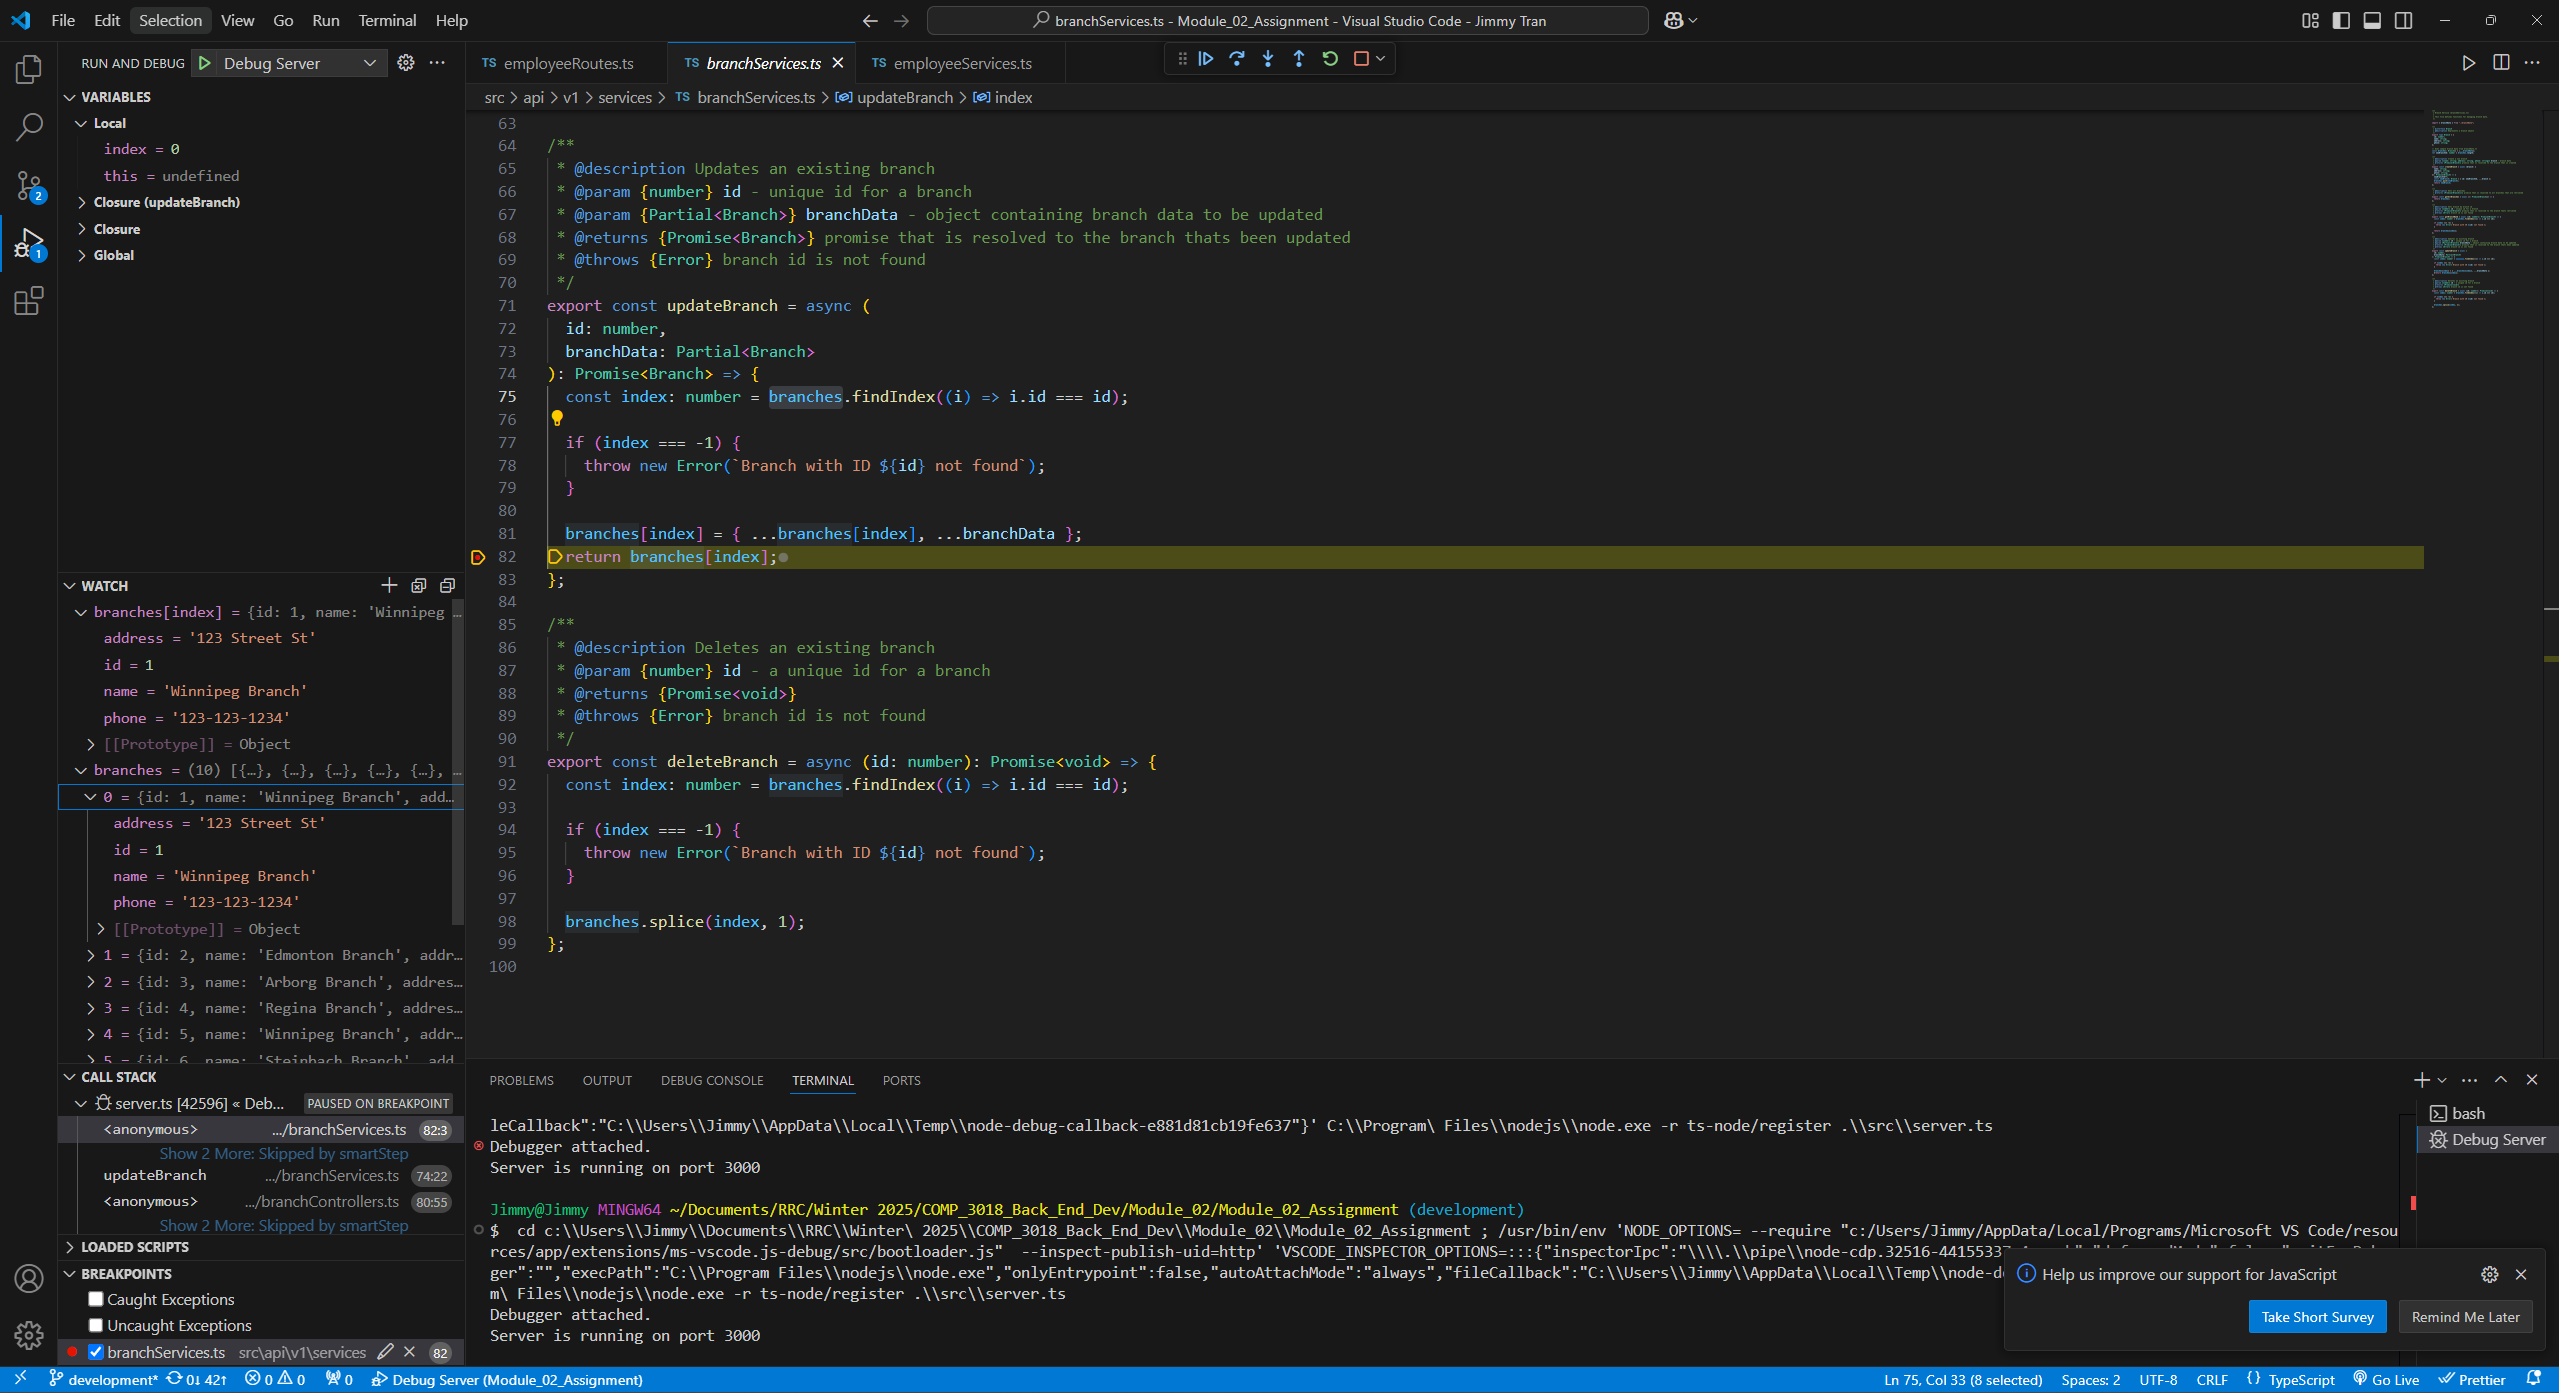
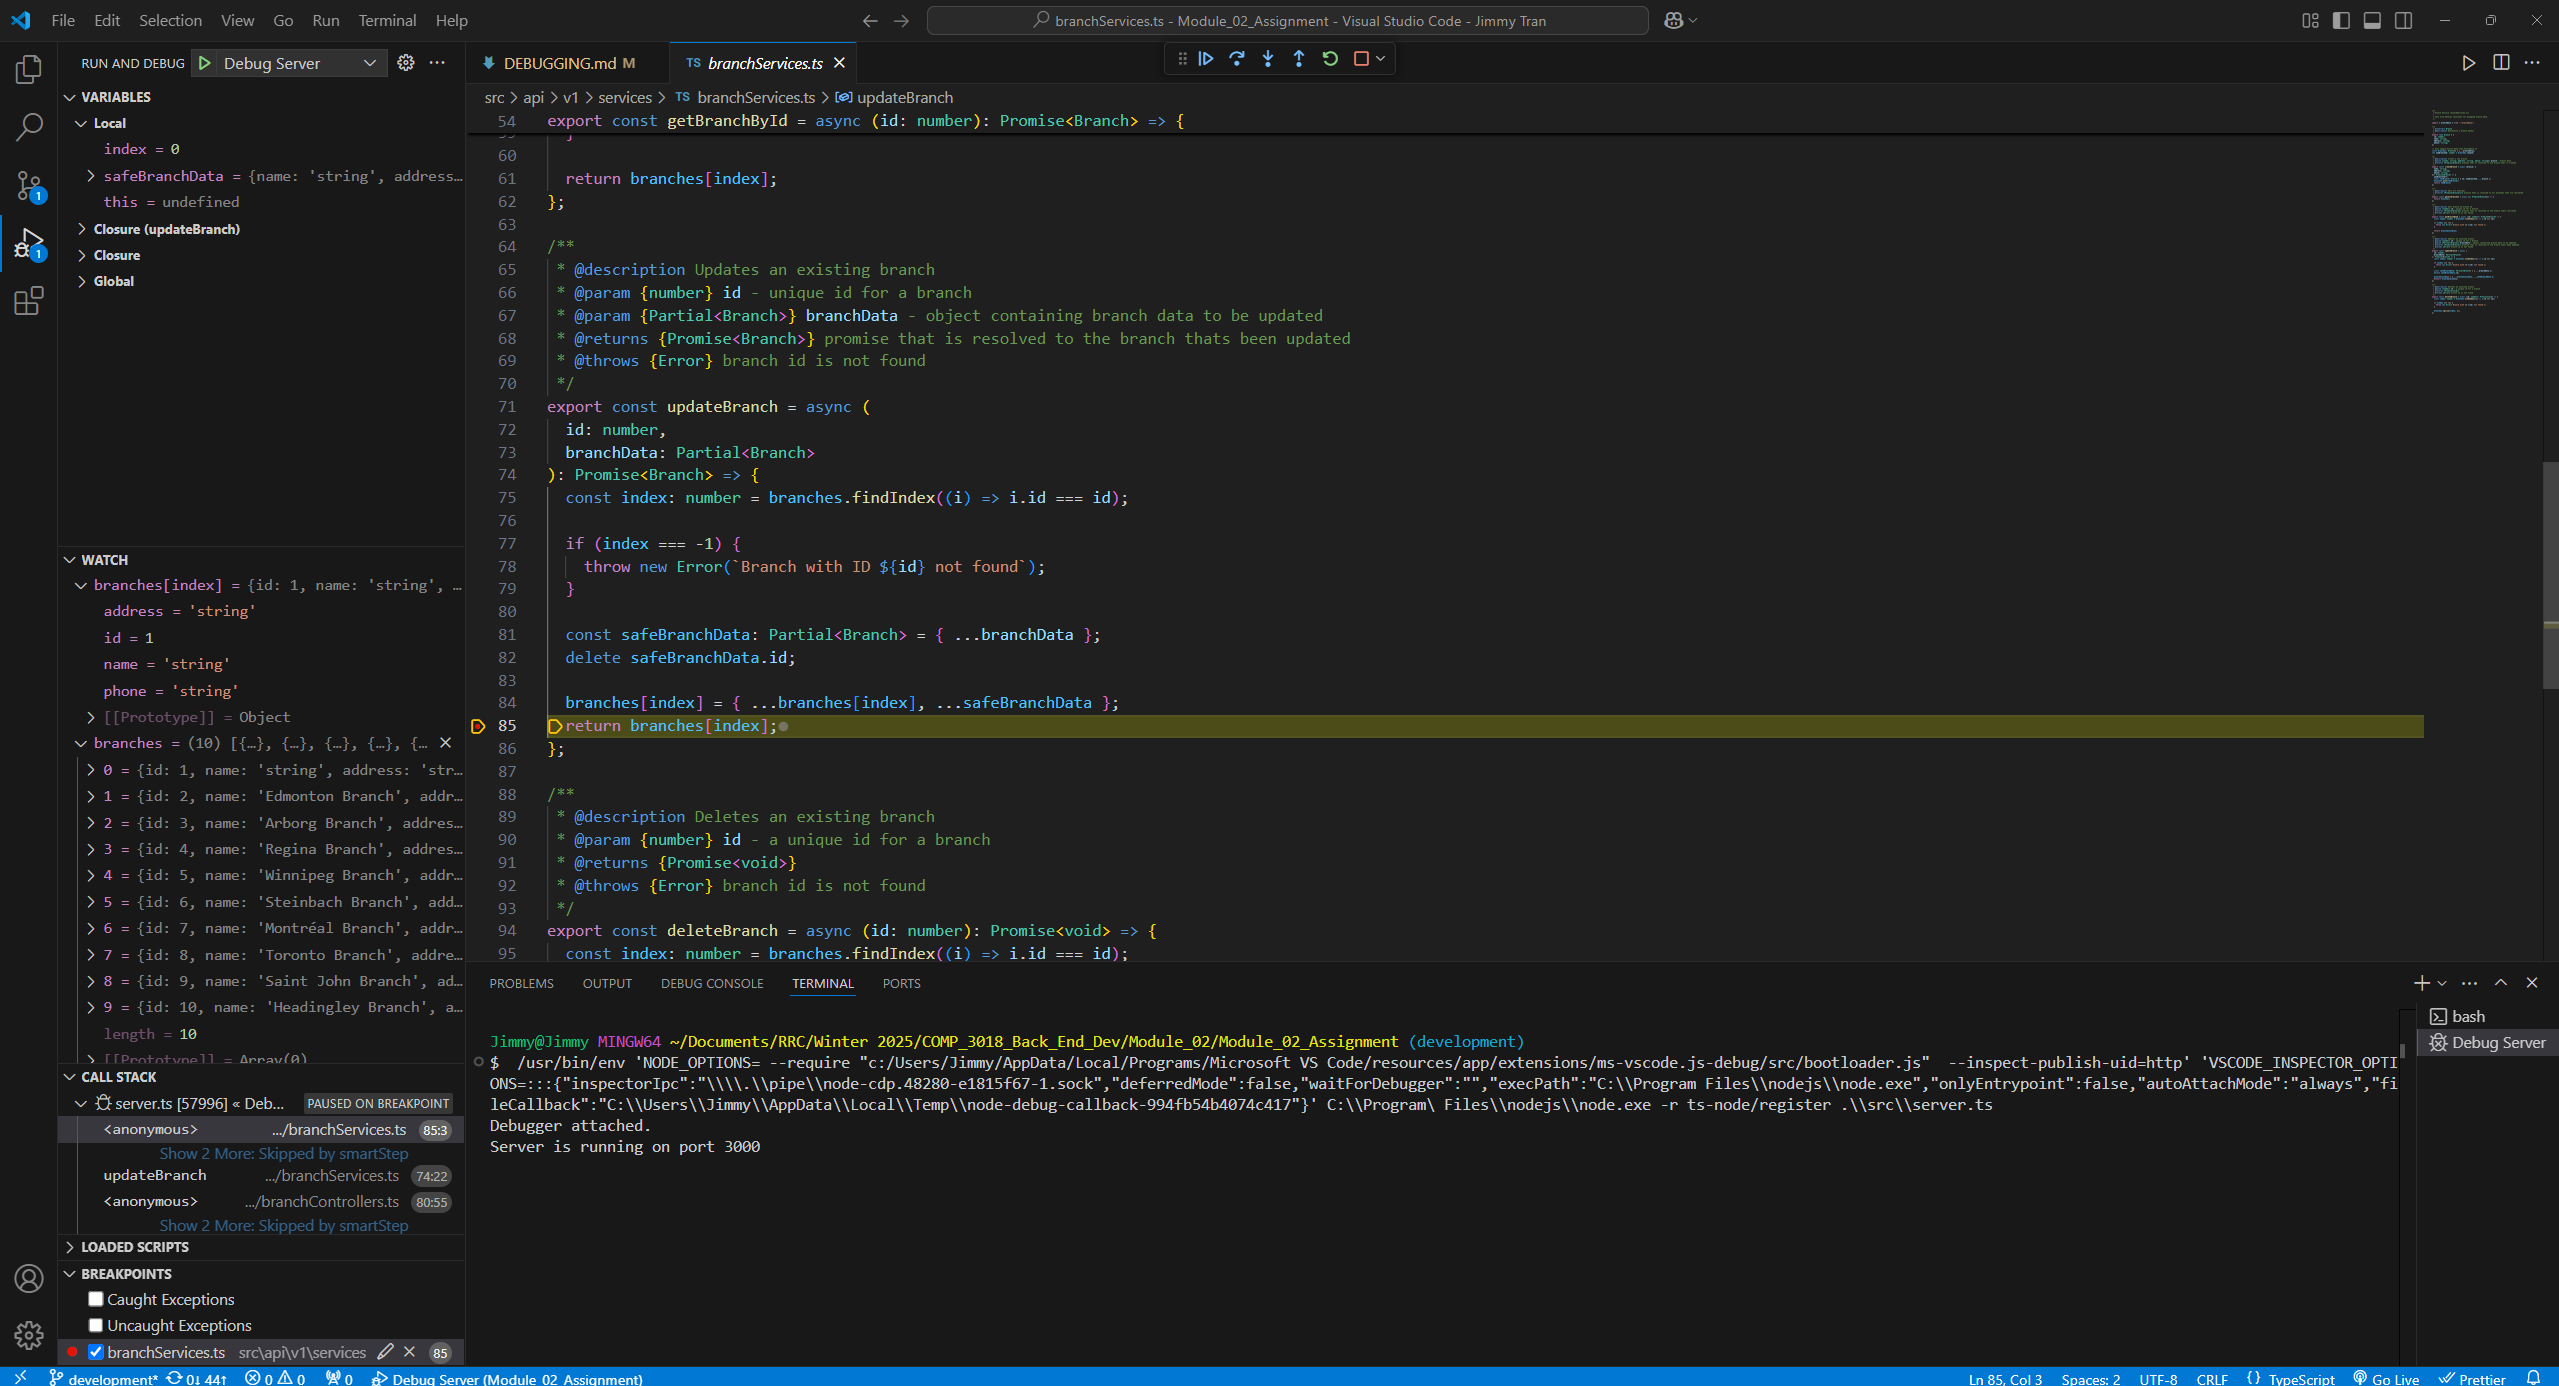
debugging analysis scenarios 2 and 3

diff --git a/debugging/DEBUGGING.md b/debugging/DEBUGGING.md
@@ -8,31 +8,67 @@
 ### Debugger Observations
 
 - **Variable States:** newEmployee: contains data from request {id: 1, name: jimmy, position: manager, department: finance,
--                      email: jimmy@gmail.com, phone: 123-123-1234, branch: 1} - employees: [{35}]
+  email: jimmy@gmail.com, phone: 123-123-1234, branch: 1} - employees: [{35}]
 - **Call Stack:** api request is made, sent to router, which sends to controller, which then sends to services, where the business logic
   is performed. For this scenario, the service being called is createEmployee. The newEmployee is assigned the new values provided
 - **Behavior:** a request is made to create a new employee. the createEmployee service is called.
--               This is where a newEmployee object is created with - the provided values and it is given a
--               unique employee id before it is pushed to the employees array. the new employee is then returned
+  This is where a newEmployee object is created with - the provided values and it is given a
+  unique employee id before it is pushed to the employees array. the new employee is then returned
 
 ### Analysis
 
-- What did you learn from this scenario?
-  - I learned how the data from the api request is taken to the service (employeeService.ts) and processed. In this case processed to create a new
-  - employee.
-- Did you observe any unexpected behavior? If so, what might be the cause?
-  - No, there was no unexpected behavior
-- Are there areas for improvement or refactoring in this part of the code?
-  - If i were to improve this part of the code, i would add some sort of validation that makes sure when a new employee is created, they cant assign
-  - them an ID themselves, rather it should be automatically generated.
-- How does this enhance your understanding of the overall project?
-  - This helped me understand the flow of the api requests when they are made. Also made me more wary of when there i user input
-  - that there shouldnt be.
+- I learned how the data from the api request is taken to the service (employeeService.ts) and processed. In
+- this case processed to create a new employee.
+- No, there was no unexpected behavior
+- If i were to improve this part of the code, i would add some sort of validation that makes sure when a new employee
+- is created, they cant assign them an ID themselves, rather it should be automatically generated.
+- This helped me understand the flow of the api requests when they are made. Also made me more wary of when there i user input
+- that there shouldnt be.
 
-## Scenario 2: [Title of the Scenario]
+## Scenario 2: updating branches
 
-[Repeat the same format as Scenario 1]
+- **Breakpoint Location:** branchServices.ts - line 85
+- **Objective:** Check if the branch being updated is the correct branch, and the correct properties are assigned
 
-## Scenario 3: [Title of the Scenario]
+### Debugger Observations
 
-[Repeat the same format as Scenario 1]
+- **Variable States:** branches[index]: contains data about branch with, in this case id 1, being selected {address: string, id: 1,
+  name: "string", phone: "string"} - branches: [{10}]
+- **Call Stack:** api request is made, sent to router, which sends to controller, which then sends to services, where the business logic
+  is performed. For this scenario, the service being called is updateBranch. Branch data that shouldnt be passed is deleted, and anything
+  that does pass is stored in safeBranchData. safeBranchData is then used to update the branch
+- **Behavior:** a request is made to uodate a branch. the updateBranch service is called.
+  This is where an ezisting branch object is updated - the "safe" branch data is used to update the old branch data. the new
+  branch with updated data is then returned
+
+### Analysis
+
+- I learned that when updating a branch, (and i assume updating an employee as well), you are able make it
+- so you cant update certain properties. This is useful when you want to keep people from changing properties they shouldnt be able to
+- The unexpected behavior was that i was able to add new properties to a branch object that werent in the type.
+- If i were to improve this part of the code, i would add some validation, filtering, or cleaning of data that comes in when
+- updating any branches (or employees).
+
+## Scenario 3: getting employees by department
+
+- **Breakpoint Location:** employeeServices.ts - line 160
+- **Objective:** Checking how the departments behave when they are being compared to the provided department parameter
+
+### Debugger Observations
+
+- **Variable States:** employee = {id: 1, name: Alice Johnson...}
+  return value: false
+  employee = {id: 5, name: Linda Martinez}
+  return value: true
+- **Call Stack:**
+- **Behavior:** In this scenario, the function has checked if the department provided exists in the first place. It has, so it
+  filters through the employees for any employee that has a matching department with the department parameter provided.
+  If it matches, it adds it to my employeesInDaprtment array. After filtering, if there is no employees in the department,
+  an error is thrown. Otherwise, if there are employeesInDepartment, it is returned
+
+### Analysis
+
+- In this scenarion i learned how to use the filter method. usually i would use a for loop, but i
+- have been experimenting and looking into other methods that function similarily or even "better".
+- No unexpected behavior was observed.
+- Not sure how i could improve this code. Maybe some sort of validation or error handling i am missing but dont realize.
